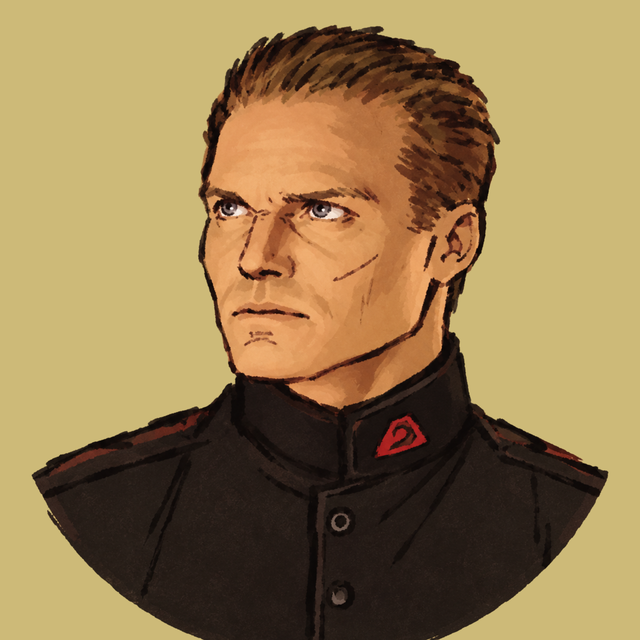
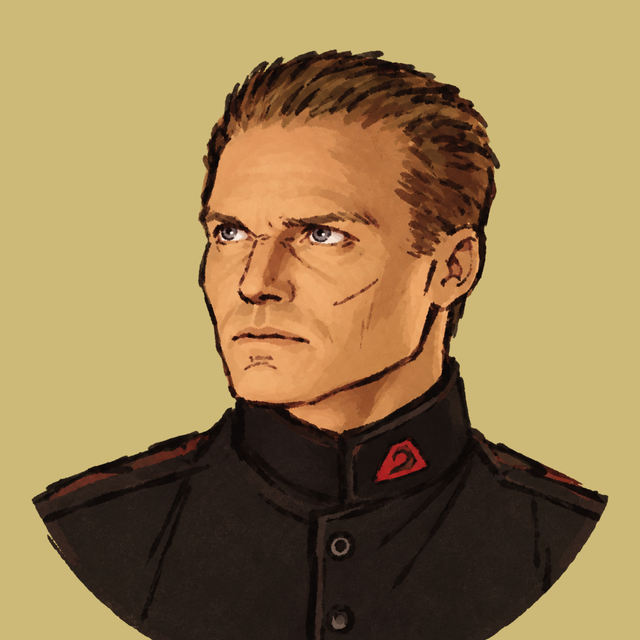
NOD portraits keep more headroom above the circular crop

diff --git a/workers/publisher/renderer-manifest.generated.ts b/workers/publisher/renderer-manifest.generated.ts
@@ -4,10 +4,10 @@
 // sharp version), so this file is reproducible on any machine (wayfinder #269).
 export const rendererManifest = {
   schemaVersion: 2,
-  rendererIdentity: 'faction-sheet/sha256:9ae7f86d7ac1b98355c05dd9bd42cbe0e5fa0f8cc3f8a4326347300a06da941c',
[1 lines of base64/hex data omitted]
+  rendererIdentity: 'faction-sheet/sha256:e9dcf19a012a57a3772d928643a69d9ddf027d81552e1000ce626af981003261',
[1 lines of base64/hex data omitted]
   components: {
[5 lines of base64/hex data omitted]
